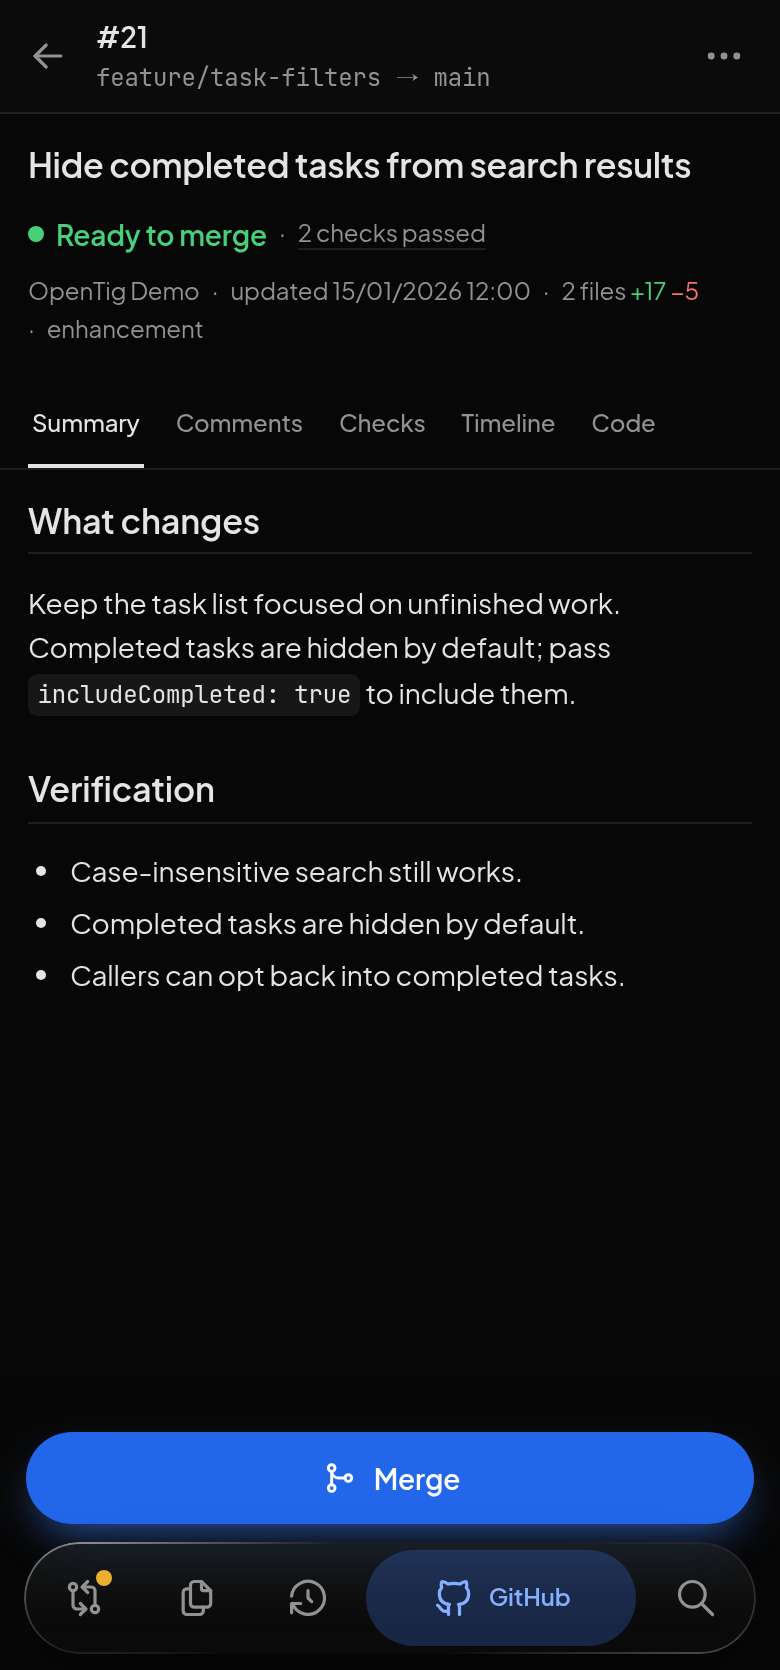
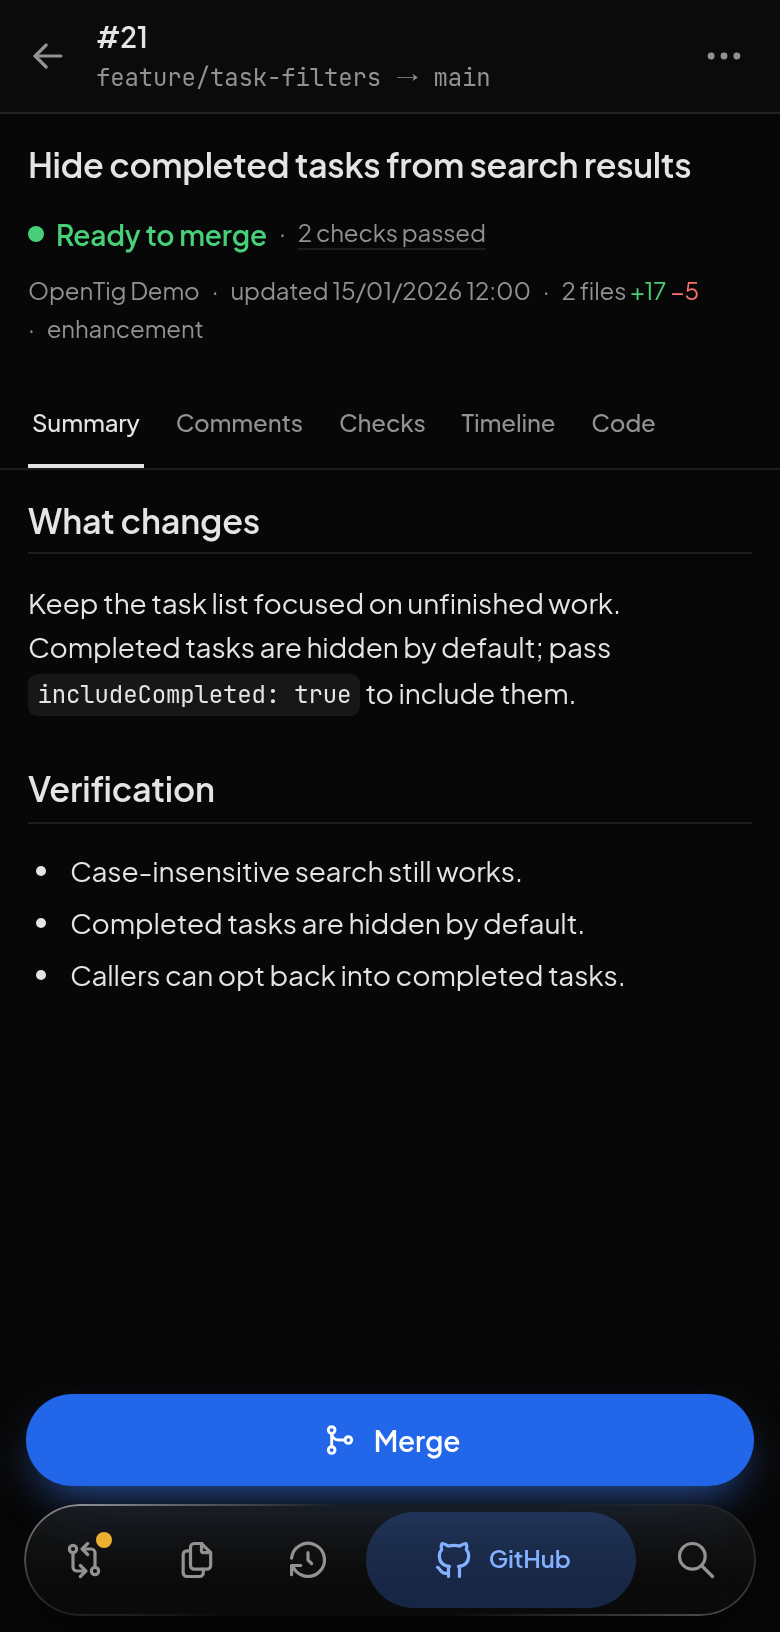
feat(website): sharpen the social preview and slim the phone bezels
The preview card is now exported at 2400 x 1260 so its screenshots stay
legible when zoomed and on high-density screens. It is a JPEG to stay
under the size at which WhatsApp may drop link previews, and the build
validator now reads JPEG as well as PNG dimensions. The phone frame uses
thin bezels, with the phone capture matched to the larger screen. The
1200 x 630 PNG stays available for previews cached with that URL.

diff --git a/website/design/social-card.html b/website/design/social-card.html
@@ -42,19 +42,19 @@
         border-radius: 12px;
         box-shadow: 0 20px 70px #000c;
       }
-      /* The phone screen is 228 x 488, the aspect ratio of the 390 x 835 capture. */
+      /* Thin bezels: the 238 x 498 screen matches the 390 x 816 capture, so nothing is cropped. */
       .phone {
         position: absolute;
         right: 70px;
         top: 104px;
         width: 246px;
         height: 506px;
-        padding: 9px;
-        border-radius: 40px;
-        background: #1a1a1d;
-        box-shadow: 0 0 0 1px #3a3a42, 0 30px 80px #000e, 0 0 90px #2266ea40;
+        padding: 4px;
+        border-radius: 38px;
+        background: #26262b;
+        box-shadow: inset 0 0 0 1px #4a4a55, 0 30px 80px #000e, 0 0 90px #2266ea40;
       }
-      .phone img { display: block; width: 228px; height: 488px; border-radius: 32px; }
+      .phone img { display: block; width: 238px; height: 498px; border-radius: 34px; }
     </style>
   </head>
   <body>
@@ -67,7 +67,7 @@
       <h1>Your Git workspace,<br /><em>on desktop and phone.</em></h1>
       <img class="workspace" src="../../docs/images/workspace.png" width="2880" height="1320" alt="OpenTig showing an open pull request and its side-by-side JavaScript diff in the Launchpad sample repository" />
       <div class="phone">
-        <img src="../../docs/images/workspace-phone.png" width="780" height="1670" alt="The same pull request on a phone, ready to merge" />
+        <img src="../../docs/images/workspace-phone.png" width="780" height="1632" alt="The same pull request on a phone, ready to merge" />
       </div>
     </main>
   </body>

diff --git a/docs/website.md b/docs/website.md
@@ -252,12 +252,12 @@ To regenerate `Inconsolata-normal.woff2`, extract `website/public/fonts/Inconsol
 
 ### Metadata and social previews
 
-Page titles, descriptions, canonical URLs, and Open Graph and Twitter card metadata live in `website/src/layouts/Layout.astro`. The homepage uses the same title and description for search and social previews. The shared social image is `website/public/opentig-social.png` (1200 × 630), with matching dimensions and alternative text in the metadata.
+Page titles, descriptions, canonical URLs, and Open Graph and Twitter card metadata live in `website/src/layouts/Layout.astro`. The homepage uses the same title and description for search and social previews. The shared social image is `website/public/opentig-social.jpg`, a 1200 × 630 card exported at twice that resolution (2400 × 1260) so it stays sharp on high-density screens and when zoomed. It is a JPEG to stay under about 300 KB, above which WhatsApp may omit the preview. The metadata declares its type, actual dimensions, and alternative text, and the build validator checks them against the file.
 
 <details>
 <summary>Update the social image</summary>
 
-The editable card source is `website/design/social-card.html`, outside the published site. Under the headline "Your Git workspace, on desktop and phone.", it combines two real product screenshots with the local logo and Geist font: `docs/images/workspace.png` and, in a phone frame, `docs/images/workspace-phone.png`. Both use normal OpenTig branding and the Launchpad sample repository in the interactive demo. The desktop capture shows the GitHub pull-request list, an open PR, and its side-by-side diff; the phone capture shows the same PR's summary with its **Merge** button. To update it, capture the desktop demo at 1440 × 660 CSS pixels and the phone demo at 390 × 835 CSS pixels (the frame's screen ratio, so nothing is cropped), both at a device scale factor of 2. Then serve the repository root on loopback, open `/website/design/social-card.html` in a browser at exactly 1200 × 630 CSS pixels, wait for the font and images to load, and export the viewport as `website/public/opentig-social.png`. If the browser scales screenshots, normalize the exported PNG to 1200 × 630 pixels without cropping. Keep the screenshot faithful to the application and inspect the exported image before deployment. Source captures and temporary tooling stay untracked. The existing `/og-image.png` remains available for previously cached previews.
+The editable card source is `website/design/social-card.html`, outside the published site. Under the headline "Your Git workspace, on desktop and phone.", it combines two real product screenshots with the local logo and Geist font: `docs/images/workspace.png` and, in a phone frame, `docs/images/workspace-phone.png`. Both use normal OpenTig branding and the Launchpad sample repository in the interactive demo. The desktop capture shows the GitHub pull-request list, an open PR, and its side-by-side diff; the phone capture shows the same PR's summary with its **Merge** button. The phone frame has thin bezels. To update it, capture the desktop demo at 1440 × 660 CSS pixels and the phone demo at 390 × 816 CSS pixels (the frame's screen ratio, so nothing is cropped), both at a device scale factor of 2. Then serve the repository root on loopback, open `/website/design/social-card.html` in a browser at exactly 1200 × 630 CSS pixels with a device scale factor of 2, wait for the font and images to load, and export the viewport as a JPEG at quality 85 to `website/public/opentig-social.jpg`. Check that it is 2400 × 1260 pixels and under about 300 KB. Keep the screenshot faithful to the application and inspect the exported image before deployment. Source captures and temporary tooling stay untracked. The earlier `/og-image.png` and `/opentig-social.png` remain available for previously cached previews; the latter holds the same card at 1200 × 630.
 
 </details>
 
